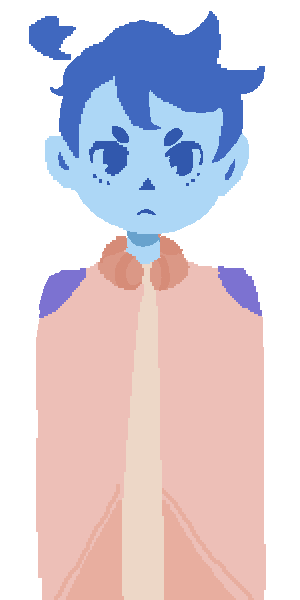
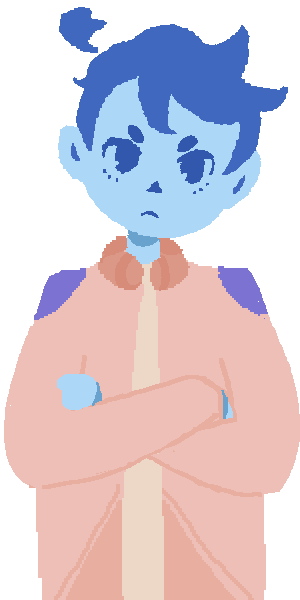
test angry john pic + mouths

diff --git a/js/DialogueSystem.js b/js/DialogueSystem.js
@@ -7,7 +7,7 @@ function Dialogue() {
     this.speakerAlpha2 = 0.0;
     this.alphaChange = 0.2;
 
-    this.speakerStartX = -280;
+    this.speakerStartX = -310;
     this.speakerX = this.speakerStartX;
     this.speaker2StartX = 800;
     this.speaker2X = this.speaker2StartX;
@@ -285,7 +285,12 @@ function Dialogue() {
             //speaker specific mouth anims for when tweening in
 
             if (fullAlpha) {
-                this.setupAnimatedMouths(dialogueList, nameList, "John", true, johnMouthMove, 130, 300);
+                if (speakerImgList[this.page] == johnHappyPic) {
+                    this.setupAnimatedMouths(dialogueList, nameList, "John", true, johnMouthMove, 130, 300);
+                } else {
+                    this.setupAnimatedMouths(dialogueList, nameList, "John", true, johnAngryMouthMove, 130, 300);
+                }
+
             }
         } else if (this.speakerX >= speakerFinalX) {
             this.speakerX = speakerFinalX;
@@ -294,7 +299,11 @@ function Dialogue() {
 
             //speaker specific mouth anims when at final pos
             if (fullAlpha) {
-                this.setupAnimatedMouths(dialogueList, nameList, "John", true, johnMouthMove, 150, 300);
+                if (speakerImgList[this.page] == johnHappyPic) {
+                    this.setupAnimatedMouths(dialogueList, nameList, "John", true, johnMouthMove, 150, 300);
+                } else {
+                    this.setupAnimatedMouths(dialogueList, nameList, "John", true, johnAngryMouthMove, 150, 300);
+                }
             }
         }
     }

diff --git a/js/ImageLoading.js b/js/ImageLoading.js
@@ -26,6 +26,7 @@ let roseHappyPic = document.createElement("img");
 let roseAnnoyedPic = document.createElement("img");
 
 let johnMouthAnimatedSheet = document.createElement("img");
+let johnMouthAnimationAngrySheet = document.createElement("img");
 let roseMouthAnimatedSheet = document.createElement("img");
 
 let johnAnimation = document.createElement("img");
@@ -73,6 +74,7 @@ function loadImages() {
 
         //PORTRAIT ANIMS
         {varName: johnMouthAnimatedSheet, theFile: "johnmouthmove.png"},
+        {varName: johnMouthAnimationAngrySheet, theFile: "johnmouthmove_angry.png"},
         {varName: roseMouthAnimatedSheet, theFile: "rosemouthmove.png"},
 
         //OVERWORLD CHARACTER ANIMS

diff --git a/js/AnimatedSprites.js b/js/AnimatedSprites.js
@@ -1,4 +1,5 @@
 let johnMouthMove;
+let johnAngryMouthMove;
 let roseMouthMove;
 let johnWalk;
 let johnWalkSide;
@@ -9,6 +10,13 @@ function makeAnimatedSprites() {
     johnMouthMove = new AnimatedSpriteClass({
 		name: "johnAnimatedMouth",
 		spriteSheet: johnMouthAnimatedSheet,
+		animationColFrames: 18,
+		framesUntilNext: 4,
+	});
+    
+    johnAngryMouthMove = new AnimatedSpriteClass({
+		name: "johnAnimatedMouth2",
+		spriteSheet: johnMouthAnimationAngrySheet,
 		animationColFrames: 18,
 		framesUntilNext: 4,
 	});
